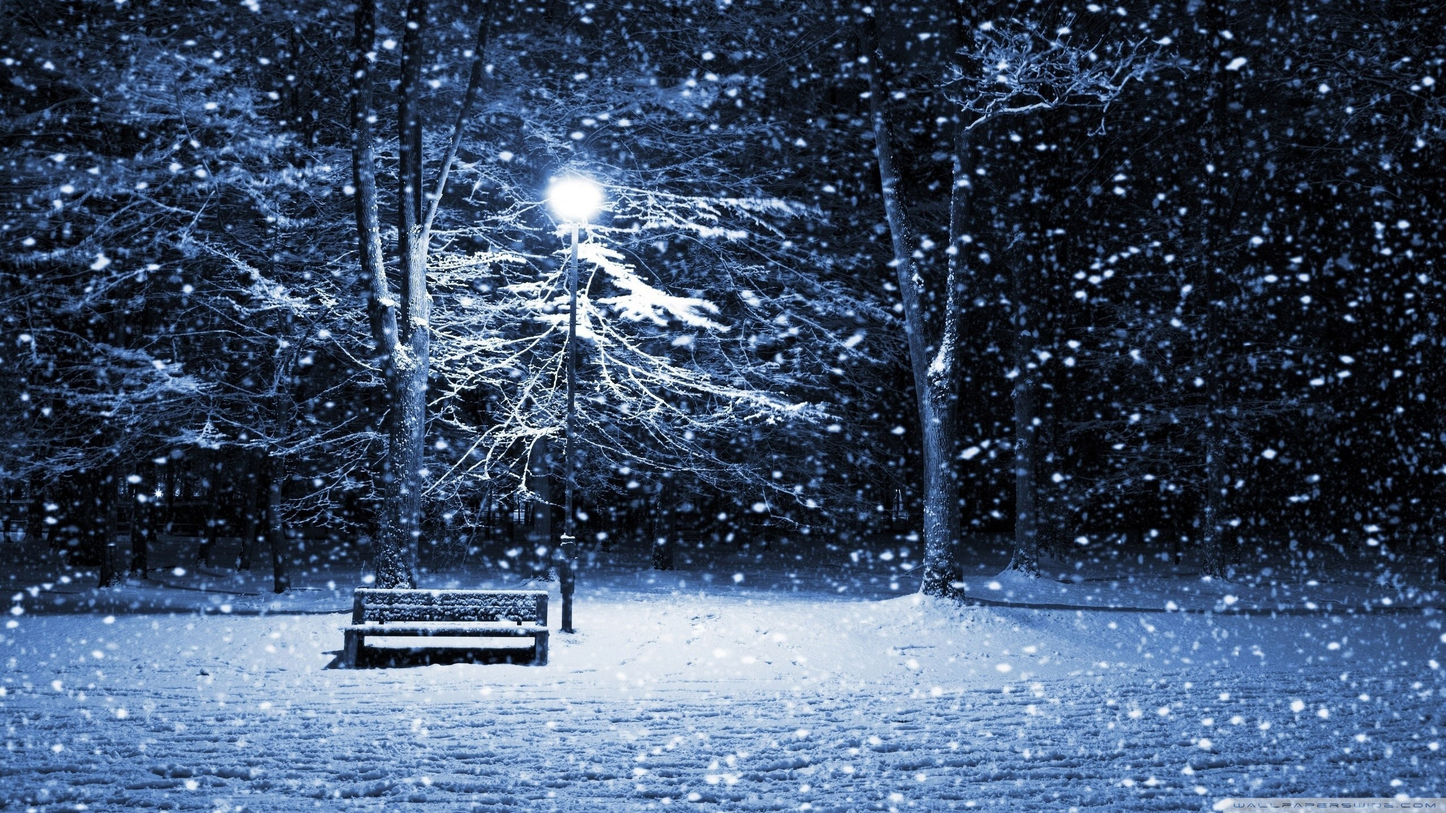
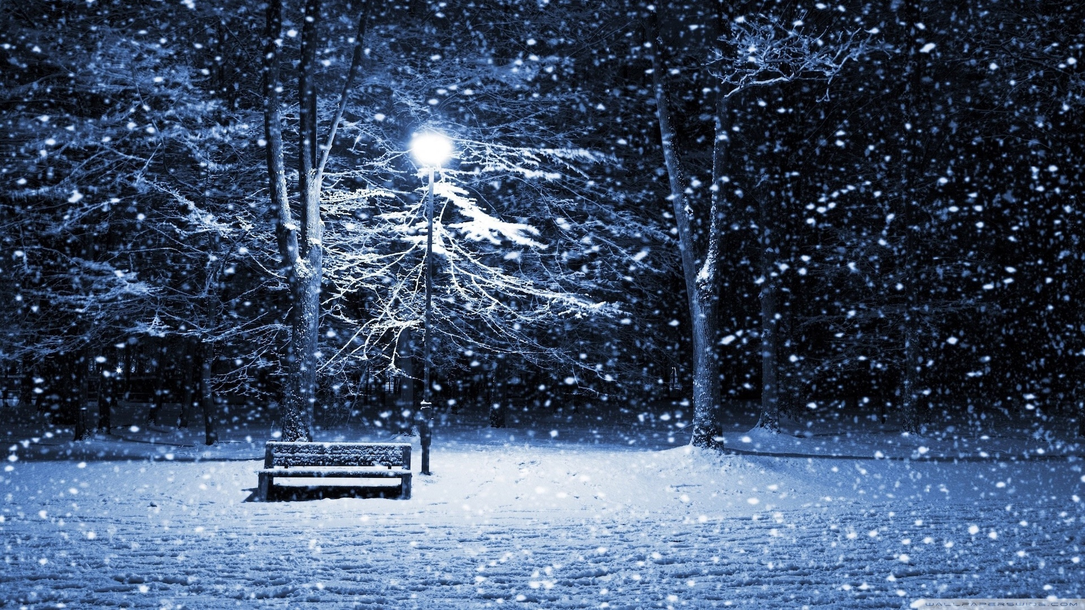
completed feature background image change depending on user local weather

diff --git a/p3 - Show the Local Weather/js/weather.js b/p3 - Show the Local Weather/js/weather.js
@@ -1,24 +1,26 @@
 var theWeather= function(){
     var xhr= new XMLHttpRequest();
-    var lat=0, lon=0, degree={};
+    var lat=0, lon=0,degree={};
     var weather  = document.getElementById("weather");
     var location = document.getElementById("location");
     var icon = document.getElementById("weather-icon");
     var description=document.getElementById("description");
     var mydegree= document.getElementById("degree");
-    var arrayColors=[{"thunder":"1a2844"}];
+    var myimage= document.getElementById("main-body");
+    var imageArray=["cloud","thunder", "rain", "snow","fog"];
+    //var arrayColors=[{"thunder":"1a2844"}]; coming soon 
 
-    var relationMapperOpenWeatherToIcons={
+    var openWeatherToIcons={
         "01d":"wi wi-day-sunny",
         "01n":"wi wi-night-clear",
-        "02d":"wi wi-day-cloudy",
-        "02n":"wi wi-night-alt-cloudy",
+        "02d":"wi wi-day-cloudy cloud",
+        "02n":"wi wi-night-alt-cloudy cloud",
         "03d":"wi wi-cloud",
         "03n":"wi wi-cloud",
-        "04d":"wi wi-cloudy",
-        "04n":"wi wi-cloudy",
-        "09d":"wi wi-day-showers",
-        "09n":"wi wi-night-alt-showers",
+        "04d":"wi wi-cloudy cloud",
+        "04n":"wi wi-cloudy cloud",
+        "09d":"wi wi-day-showers rain",
+        "09n":"wi wi-night-alt-showers rain",
         "10d":"wi wi-day-rain",
         "10n":"wi wi-night-alt-rain",
         "11d":"wi wi-day-thunderstorm",
@@ -47,11 +49,23 @@ var theWeather= function(){
                     location.innerHTML=weatherObj.name;
                     weather.innerHTML=degree.f +" &#8457;";
                     description.innerHTML=weatherObj.weather[0].description;
-                    icon.className=relationMapperOpenWeatherToIcons[weatherObj.weather[0].icon];
+                    icon.className=openWeatherToIcons[weatherObj.weather[0].icon];
+
+                    
+                    myimage.style.backgroundImage=(function(){
+                        for(var i=0; i<imageArray.length; i++){
+                            var re= new RegExp(imageArray[i],'g');
+                            if(openWeatherToIcons[weatherObj.weather[0].icon].match(re)!==null){
+                                return "url('/img/"+imageArray[i]+".jpg') ";
+                            }
+                        }
+                        return  "url('/img/default.jpg')";
+                        //function been tested.... it pickup all weather codes
+                    })();
+                    
 
                     document.getElementById("convert").addEventListener("click", function(){
-                        console.log(this.value);
-
+                        //console.log(this.value);
                         if(this.value==='c'){
                              weather.innerHTML=degree.c+ " &#8451";
                              this.value='f'
@@ -63,14 +77,9 @@ var theWeather= function(){
                         }
                     });
                 }
-            }
+            }//end xhr func
         });
     }
-
-    var mapper ={
-
-    };
-
 }
 
 theWeather();

diff --git a/p3 - Show the Local Weather/css/main.css b/p3 - Show the Local Weather/css/main.css
@@ -18,7 +18,6 @@ button:hover{
     background-position:center;
     text-align: center;
 }
-
 h1.title{
     margin-bottom: 30px;
     font-family: Lobster, 'Open Sans', sans-serif;
@@ -38,7 +37,6 @@ h1.title{
     margin: 0 auto 10px;
     width: 65%;
 }
-
 .responsive-circle::after {
     border-radius: 50%;
     content: "";
@@ -48,8 +46,6 @@ h1.title{
     padding-bottom: 100%;
     width: 100%;
     border: 2px solid #FFF;
-    
-
 }
 .responsive-circle div {
     color: white;
@@ -59,14 +55,10 @@ h1.title{
     padding-top: 45%;
     text-align: center;
     width: 100%;
-
 }
-
 .nyc-circle::after {
-    background:rgba(22,22,22,0.95);
-
+    background:rgba(117,128,156,0.85);
 }
-
 .circle-inner button:hover{
     background-color: hotpink;
     color:#FFF;

diff --git a/p3 - Show the Local Weather/index.html b/p3 - Show the Local Weather/index.html
@@ -39,11 +39,8 @@
         </div>
         </div>
     </div>    
-         
     <script type="text/javascript" src="bower_components/jquery/dist/jquery.min.js"></script>
     <script type="text/javascript" src="bower_components/bootstrap/dist/js/bootstrap.min.js"></script>
     <script type="text/javascript" src="js/weather.js"></script>
-
-   
 </body>
 </html>

diff --git a/readme.md b/readme.md
@@ -30,6 +30,6 @@ todolist:
 + technologies: HTML, CSS, JavaScript, font awesome, Weather icons, bootstrap3
 + API: [openweathermap](http://openweathermap.org/current)
 + ~~User Story: I can see the weather in my current location.~~
-+ User Story: I can see a different icon or background image (e.g. snowy mountain, hot desert) depending on the weather.
-+ User Story: I can push a button to toggle between Fahrenheit and Celsius.
-+ todo: n/a
++ ~~User Story: I can see a different icon or background image (e.g. snowy mountain, hot desert) depending on the weather.~~
++ ~~User Story: I can push a button to toggle between Fahrenheit and Celsius.~~
++ todo: improve css, make color profile forEach weather image
